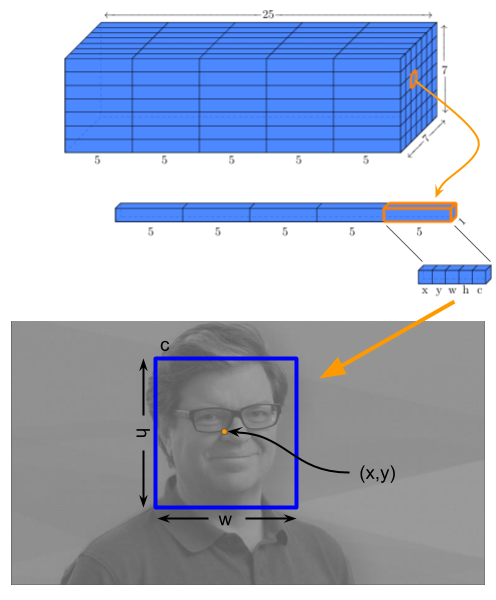
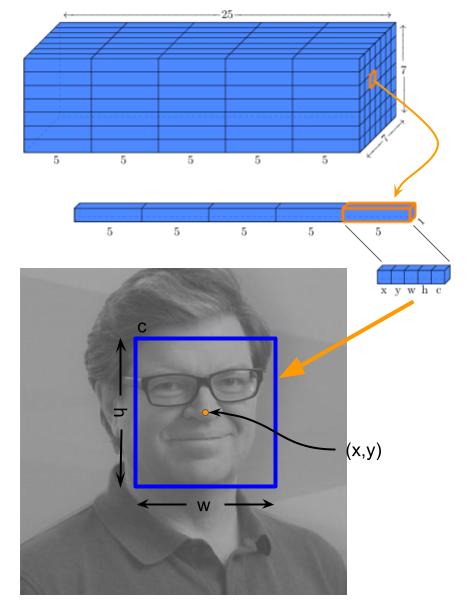
updated figures w/ new crop

diff --git a/index.html b/index.html
@@ -19,14 +19,14 @@
       <div class="indeterminate"></div>
     </div>
     <table width=50%><tr><td valign="middle" width=600>
-	  <font size="+5"><b>TinyYoloV2 Face Detection</b></font>
-	</td>
-	<td valign="middle">
-	  <font size=+3>&bull;</font>
-	  <sup><font size=+1><a href="resources/tutorial.html">Tutorial</a></font></sup>
-	  &nbsp; <font size=+3>&bull;</font>
-	  <sup><font size=+1><a href="resources/experiments.html">Experiments</a></font></sup>
-	</td></tr></table>
+    <font size="+5"><b>TinyYoloV2 Face Detection</b></font>
+  </td>
+  <td valign="middle">
+    <font size=+3>&bull;</font>
+    <sup><font size=+1><a href="resources/tutorial.html">Tutorial</a></font></sup>
+    &nbsp; <font size=+3>&bull;</font>
+    <sup><font size=+1><a href="resources/experiments.html">Experiments</a></font></sup>
+  </td></tr></table>
     <div class="row side-by-side" style="margin-top: 0px;">
       <div class="column center-content" style="margin-top: 0px;">
         <div class="row side-by-side" style="margin-top: 0px;">

diff --git a/public/styles.css b/public/styles.css
@@ -69,6 +69,7 @@
 
 #overlay, .overlay {
   position: absolute;
+  object-position: left top;
   top: 0;
   left: 0;
 }
@@ -97,9 +98,13 @@ input[type="file"]::-webkit-file-upload-button {
 }
 
 video {
-  object-fit: cover;
+  width: 448px;
+  height: 448px;
+  object-fit: none;
+/*  object-position: 50% 50%;*/
 }
 
 .bbox {
   filter: grayscale(100%);
-}
+/*  object-position: left top;
+*/}

diff --git a/resources/figure_code/main.tex b/resources/figure_code/main.tex
@@ -18,9 +18,9 @@
 %%%%%%%%%%%%%%%%%%%%%%%%%%%%%%%%%%%%%%%%%%%%%%%%%%%%%%%%%%%%%%%%%%%%%%%%%%%%%%%%%%%%%%%%
 %% Draw Layer Blocks
 %%%%%%%%%%%%%%%%%%%%%%%%%%%%%%%%%%%%%%%%%%%%%%%%%%%%%%%%%%%%%%%%%%%%%%%%%%%%%%%%%%%%%%%%
-\node[canvas is zy plane at x=0] (temp) at (-4.75,0,0) {\includegraphics[width=8cm,height=8cm]{yann_red.png}};
-\node[canvas is zy plane at x=0] (temp) at (-5,0,0) {\includegraphics[width=8cm,height=8cm]{yann_green.png}};
 \node[canvas is zy plane at x=0] (temp) at (-5.25,0,0) {\includegraphics[width=8cm,height=8cm]{yann_blue.png}};
+\node[canvas is zy plane at x=0] (temp) at (-5,0,0) {\includegraphics[width=8cm,height=8cm]{yann_green.png}};
+\node[canvas is zy plane at x=0] (temp) at (-4.75,0,0) {\includegraphics[width=8cm,height=8cm]{yann_red.png}};
 
 % conv1
 \pic[shift={(0,0,0)}] at (0,0,0) {RightBandedBox={name=cr1,zlabel=224,position=-0.25,%
